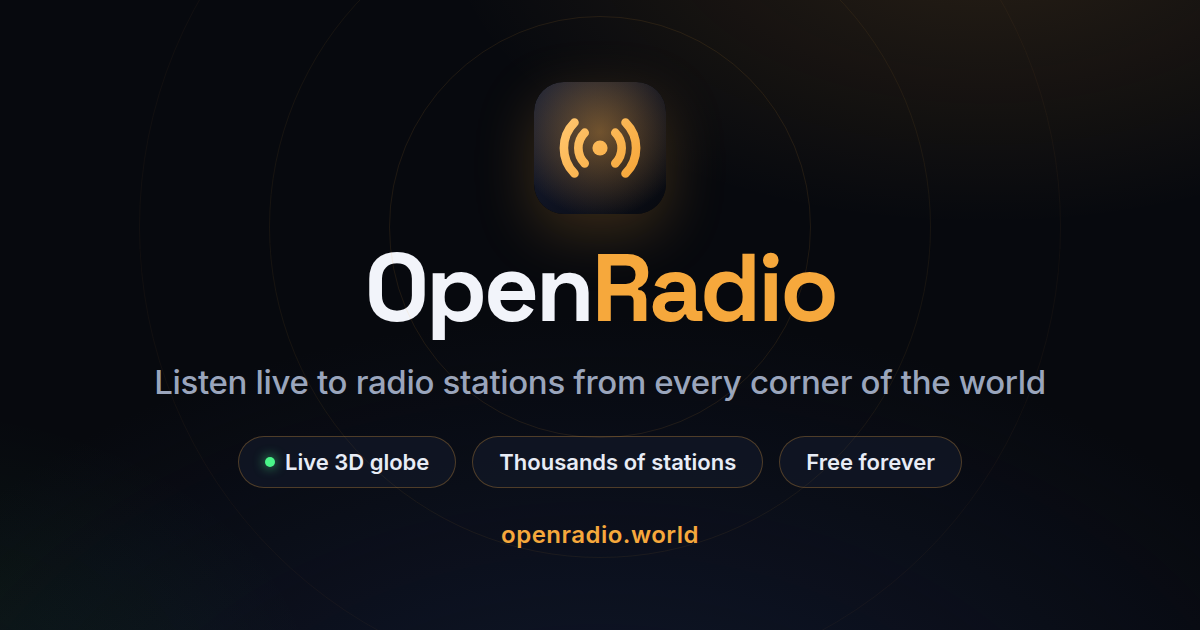
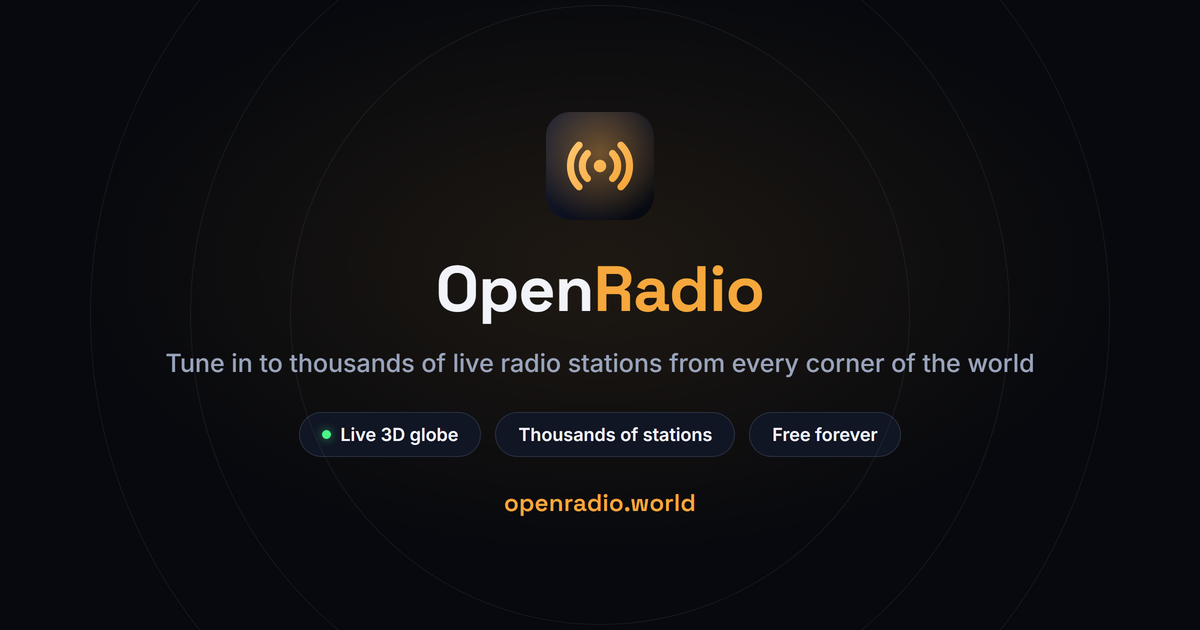
fix(seo): sync og-image copy with meta description and cache-bust it
The redesign re-rendered og-image.png in the new amber-on-navy style
but kept the old tagline, leaving it out of sync with the actual
og:description/twitter:description text. Rebuilt the image with
matching copy and current design tokens (bg-0, amber, live-green),
and added a ?v= query to the og:image/twitter:image URLs so platforms
that cache link previews by URL pick up the change.

diff --git a/index.html b/index.html
@@ -14,7 +14,7 @@
   <meta property="og:url" content="https://openradio.world/" />
   <meta property="og:title" content="OpenRadio — Listen to Live Radio Stations Worldwide for Free" />
   <meta property="og:description" content="Tune in to thousands of live internet radio stations from every corner of the world. Spin an interactive 3D globe, browse by country or city, and save your favorites — free, no signup needed." />
-  <meta property="og:image" content="https://openradio.world/assets/og-image.png" />
+  <meta property="og:image" content="https://openradio.world/assets/og-image.png?v=night-broadcast-2" />
   <meta property="og:image:type" content="image/png" />
   <meta property="og:image:width" content="1200" />
   <meta property="og:image:height" content="630" />
@@ -25,7 +25,7 @@
   <meta name="twitter:card" content="summary_large_image" />
   <meta name="twitter:title" content="OpenRadio — Listen to Live Radio Stations Worldwide for Free" />
   <meta name="twitter:description" content="Tune in to thousands of live internet radio stations from every corner of the world. Spin an interactive 3D globe, browse by country or city, and save your favorites — free, no signup needed." />
-  <meta name="twitter:image" content="https://openradio.world/assets/og-image.png" />
+  <meta name="twitter:image" content="https://openradio.world/assets/og-image.png?v=night-broadcast-2" />
   <meta name="twitter:image:alt" content="OpenRadio — listen live to radio stations from every corner of the world" />
 
   <!-- Icons & PWA -->

diff --git a/CHANGELOG.md b/CHANGELOG.md
@@ -8,6 +8,13 @@ commit order rather than by version number. Newest change first.
 
 ## 2026-07-15
 
+- **Open Graph link-preview image copy fixed** — the redesign re-rendered
+  `assets/og-image.png` in the new amber-on-navy style but kept the old
+  tagline ("Listen live to radio stations from every corner of the
+  world"), out of sync with the page's actual meta description. The
+  image is rebuilt with matching copy, and the `og:image`/`twitter:image`
+  URLs are now cache-busted so platforms that cache link previews by URL
+  pick up the refresh.
 - **Globe centered again after the zoom-in** — opening the globe bigger
   (previous entry) exposed a pre-existing offset: the camera's tilt
   (`pitch: 20`) shifts the rendered sphere downward relative to its